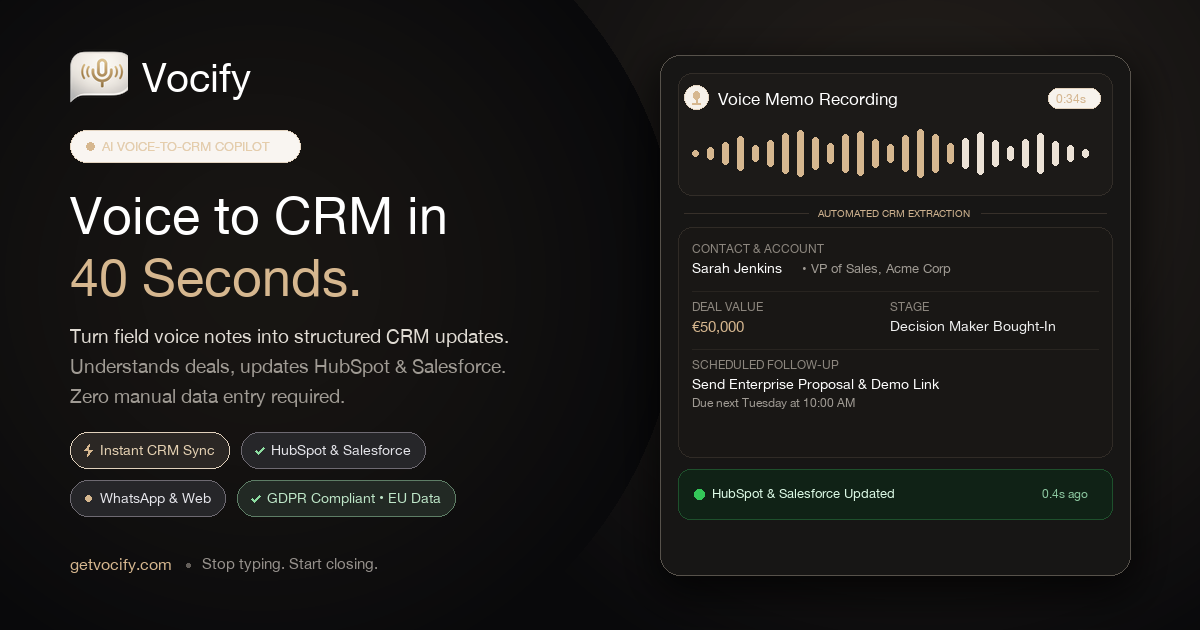
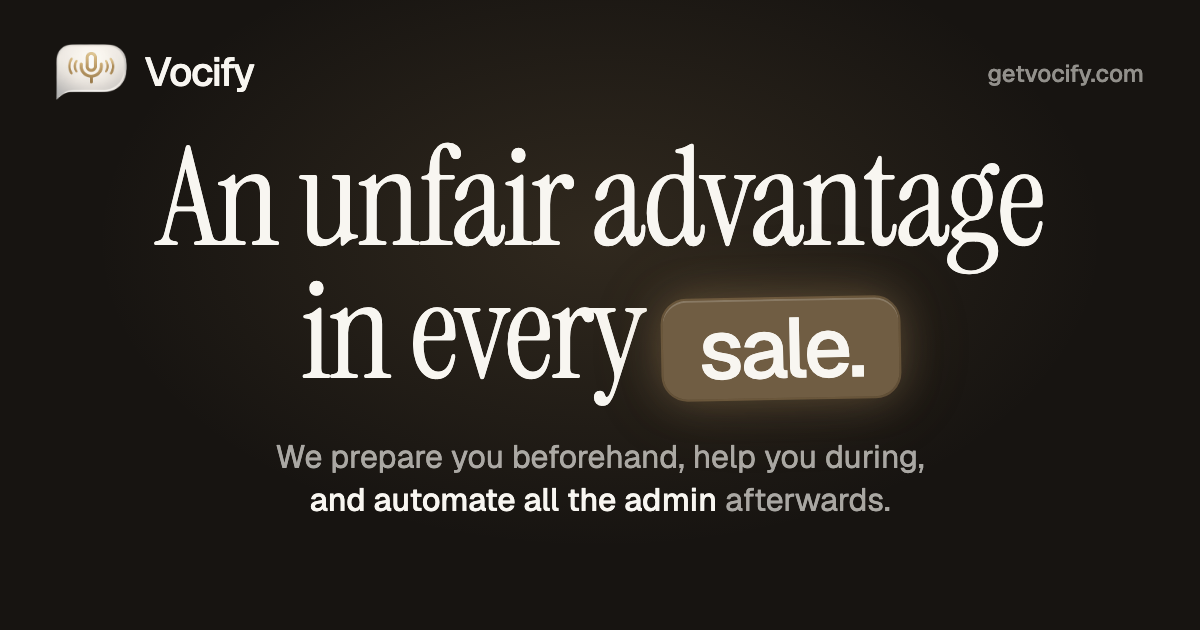
feat(seo): real headline in title/description and a new link preview image from the landing hero

diff --git a/index.html b/index.html
@@ -3,8 +3,8 @@
   <head>
     <meta charset="UTF-8" />
     <meta name="viewport" content="width=device-width, initial-scale=1.0" />
-    <title>Vocify - Voice to CRM in 40 Seconds</title>
-    <meta name="description" content="The voice-to-CRM AI that turns field notes into perfect HubSpot and Salesforce updates in 40 seconds. Save 5+ hours per week and never miss a detail." />
+    <title>Vocify - An unfair advantage in every sale</title>
+    <meta name="description" content="Vocify prepares you before the call, helps you during it, and automates all the admin afterwards. Works with HubSpot, Salesforce and the CRM you already use." />
     <meta name="keywords" content="voice to CRM, sales automation, HubSpot integration, Salesforce integration, field sales, voice memo, CRM updates, AI sales copilot" />
     <meta name="author" content="Vocify" />
     <meta name="theme-color" content="#09090b" />
@@ -19,8 +19,8 @@
 
     <!-- Open Graph / Facebook / LinkedIn / WhatsApp -->
     <meta property="og:site_name" content="Vocify" />
-    <meta property="og:title" content="Vocify - Voice to CRM in 40 Seconds" />
-    <meta property="og:description" content="Turn field notes into perfect CRM updates with AI-powered voice memos. Automatically updates HubSpot and Salesforce in seconds." />
+    <meta property="og:title" content="Vocify - An unfair advantage in every sale" />
+    <meta property="og:description" content="Vocify prepares you before the call, helps you during it, and automates all the admin afterwards. Works with HubSpot, Salesforce and the CRM you already use." />
     <meta property="og:type" content="website" />
     <meta property="og:url" content="https://getvocify.com/" />
     <meta property="og:image" content="https://getvocify.com/og-image.png" />
@@ -28,16 +28,16 @@
     <meta property="og:image:type" content="image/png" />
     <meta property="og:image:width" content="1200" />
     <meta property="og:image:height" content="630" />
-    <meta property="og:image:alt" content="Vocify - Voice to CRM in 40 Seconds. AI Voice-to-CRM copilot for HubSpot and Salesforce." />
+    <meta property="og:image:alt" content="Vocify - An unfair advantage in every sale. We prepare you beforehand, help you during, and automate all the admin afterwards." />
     <meta property="og:locale" content="en_US" />
     <meta property="og:locale:alternate" content="es_ES" />
 
     <!-- Twitter / X Cards -->
     <meta name="twitter:card" content="summary_large_image" />
-    <meta name="twitter:title" content="Vocify - Voice to CRM in 40 Seconds" />
-    <meta name="twitter:description" content="Turn field notes into perfect CRM updates with AI-powered voice memos. Automatically updates HubSpot and Salesforce in seconds." />
+    <meta name="twitter:title" content="Vocify - An unfair advantage in every sale" />
+    <meta name="twitter:description" content="Vocify prepares you before the call, helps you during it, and automates all the admin afterwards. Works with HubSpot, Salesforce and the CRM you already use." />
     <meta name="twitter:image" content="https://getvocify.com/og-image.png" />
-    <meta name="twitter:image:alt" content="Vocify - Voice to CRM in 40 Seconds. AI Voice-to-CRM copilot for HubSpot and Salesforce." />
+    <meta name="twitter:image:alt" content="Vocify - An unfair advantage in every sale. We prepare you beforehand, help you during, and automate all the admin afterwards." />
 
     <!-- Favicons & App Icons -->
     <link rel="icon" type="image/x-icon" href="/favicon.ico" />
@@ -56,7 +56,7 @@
           "@id": "https://getvocify.com/#website",
           "url": "https://getvocify.com/",
           "name": "Vocify",
-          "description": "Voice to CRM in 40 Seconds - AI-powered voice memo to CRM automation.",
+          "description": "Vocify prepares you before the call, helps you during it, and automates all the admin afterwards. Works with HubSpot, Salesforce and the CRM you already use.",
           "inLanguage": "en-US"
         },
         {
@@ -71,7 +71,7 @@
             "height": 568
           },
           "image": "https://getvocify.com/og-image.png",
-          "description": "The voice-to-CRM AI copilot that turns field notes into CRM updates in seconds."
+          "description": "Vocify prepares you before the call, helps you during it, and automates all the admin afterwards. Works with HubSpot, Salesforce and the CRM you already use."
         },
         {
           "@type": "SoftwareApplication",

diff --git a/scripts/og/og.html b/scripts/og/og.html
@@ -1,0 +1,22 @@
+<!doctype html>
+<html><head><meta charset="utf-8">
+<link href="https://fonts.googleapis.com/css2?family=Instrument+Serif&display=swap" rel="stylesheet">
+<style>
+@font-face{font-family:Geist;src:url('../../public/fonts/Geist-Variable.woff2') format('woff2');font-weight:100 900}
+*{margin:0;box-sizing:border-box}
+body{width:1200px;height:630px;background:rgb(23,20,17);color:rgb(248,246,241);font-family:Geist,sans-serif;position:relative;overflow:hidden}
+.glow{position:absolute;inset:0;background:radial-gradient(60% 70% at 50% 38%,rgba(182,150,99,.16),transparent 70%)}
+.logo{position:absolute;top:44px;left:56px;height:56px;display:flex;align-items:center;gap:14px;font-size:40px;font-weight:500;letter-spacing:-.03em}.bub{height:56px;width:calc(56px*3.241*.41);overflow:hidden}.bub img{height:56px;max-width:none;display:block}
+.url{position:absolute;top:58px;right:56px;font-size:24px;font-weight:500;color:rgba(248,246,241,.55)}
+.c{position:absolute;left:0;right:0;top:132px;text-align:center}
+h1{font-family:'Instrument Serif',serif;font-weight:400;font-size:136px;line-height:.98;letter-spacing:-.02em}
+.chip{display:inline-block;transform:rotate(-1deg);background:rgb(112,93,67);border-radius:24px;padding:.1em .42em;font-family:Geist,sans-serif;font-weight:500;font-size:.62em;letter-spacing:-.04em;outline:2px solid rgba(182,150,99,.35);box-shadow:inset 0 2px 0 rgba(255,255,255,.18),0 0 40px rgba(182,150,99,.35),0 0 80px rgba(182,150,99,.15)}
+p{margin-top:36px;font-size:32px;line-height:1.35;color:rgba(248,246,241,.65)}
+p b{font-weight:500;color:rgb(248,246,241)}
+</style></head><body>
+<div class="glow"></div>
+<div class="logo"><div class="bub"><img src="../../public/icons/logo_transparent.png"></div><span>Vocify</span></div>
+<div class="url">getvocify.com</div>
+<div class="c"><h1>An unfair advantage<br>in every <span class="chip">sale.</span></h1>
+<p>We prepare you beforehand, help you during,<br><b>and automate all the admin</b> afterwards.</p></div>
+</body></html>
